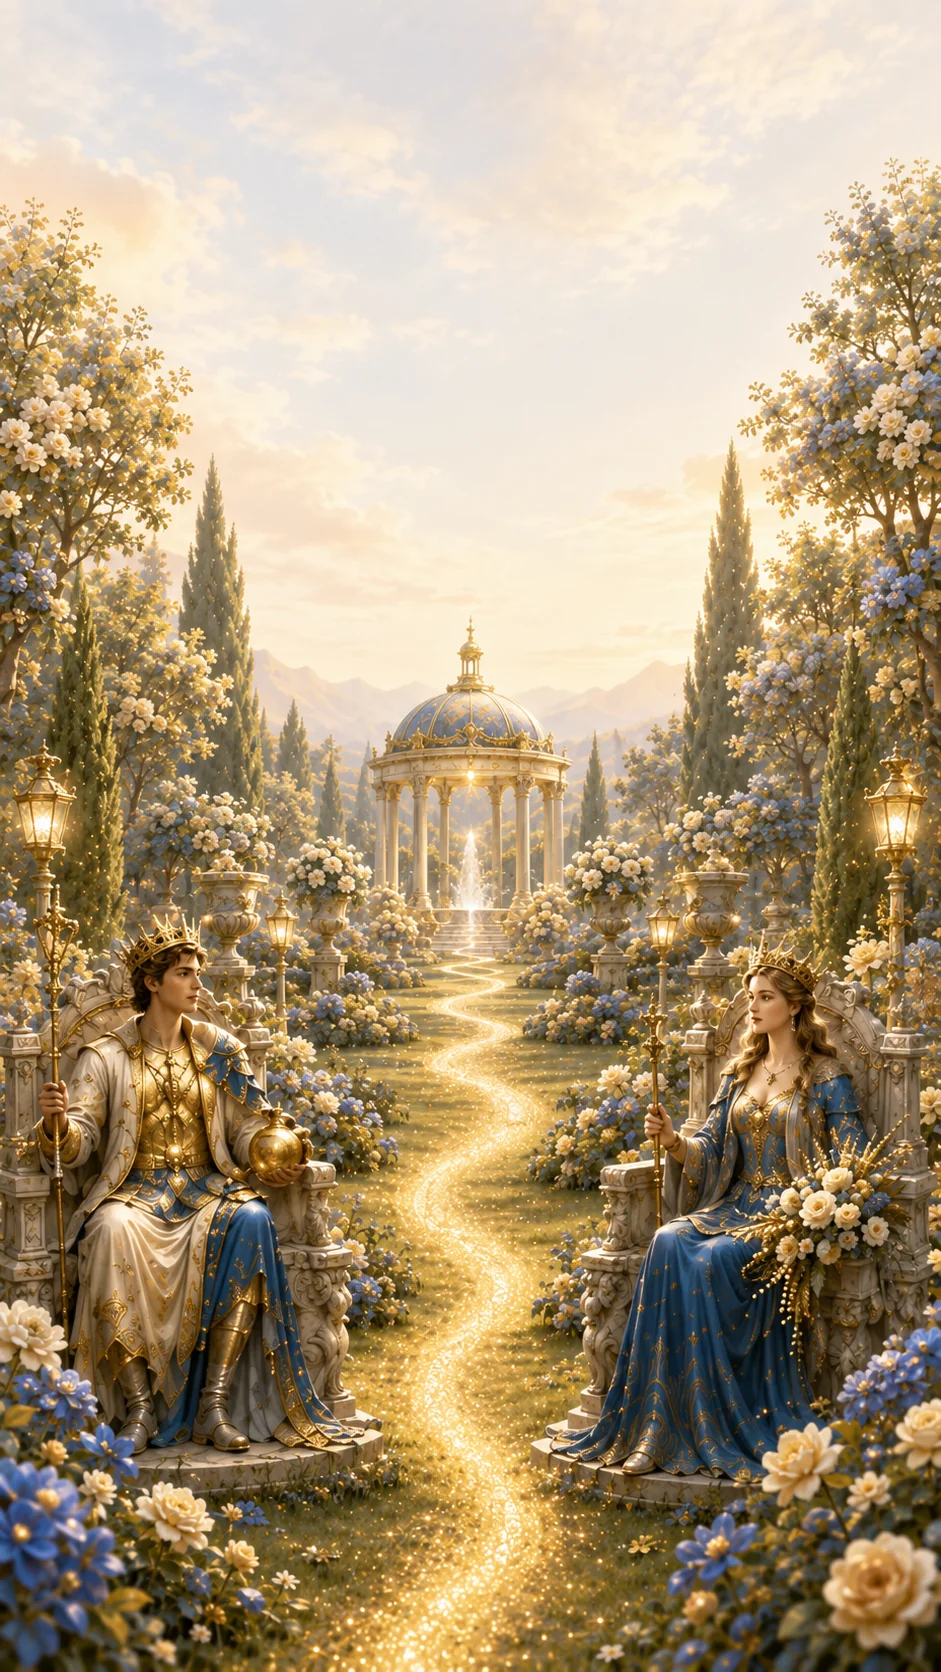
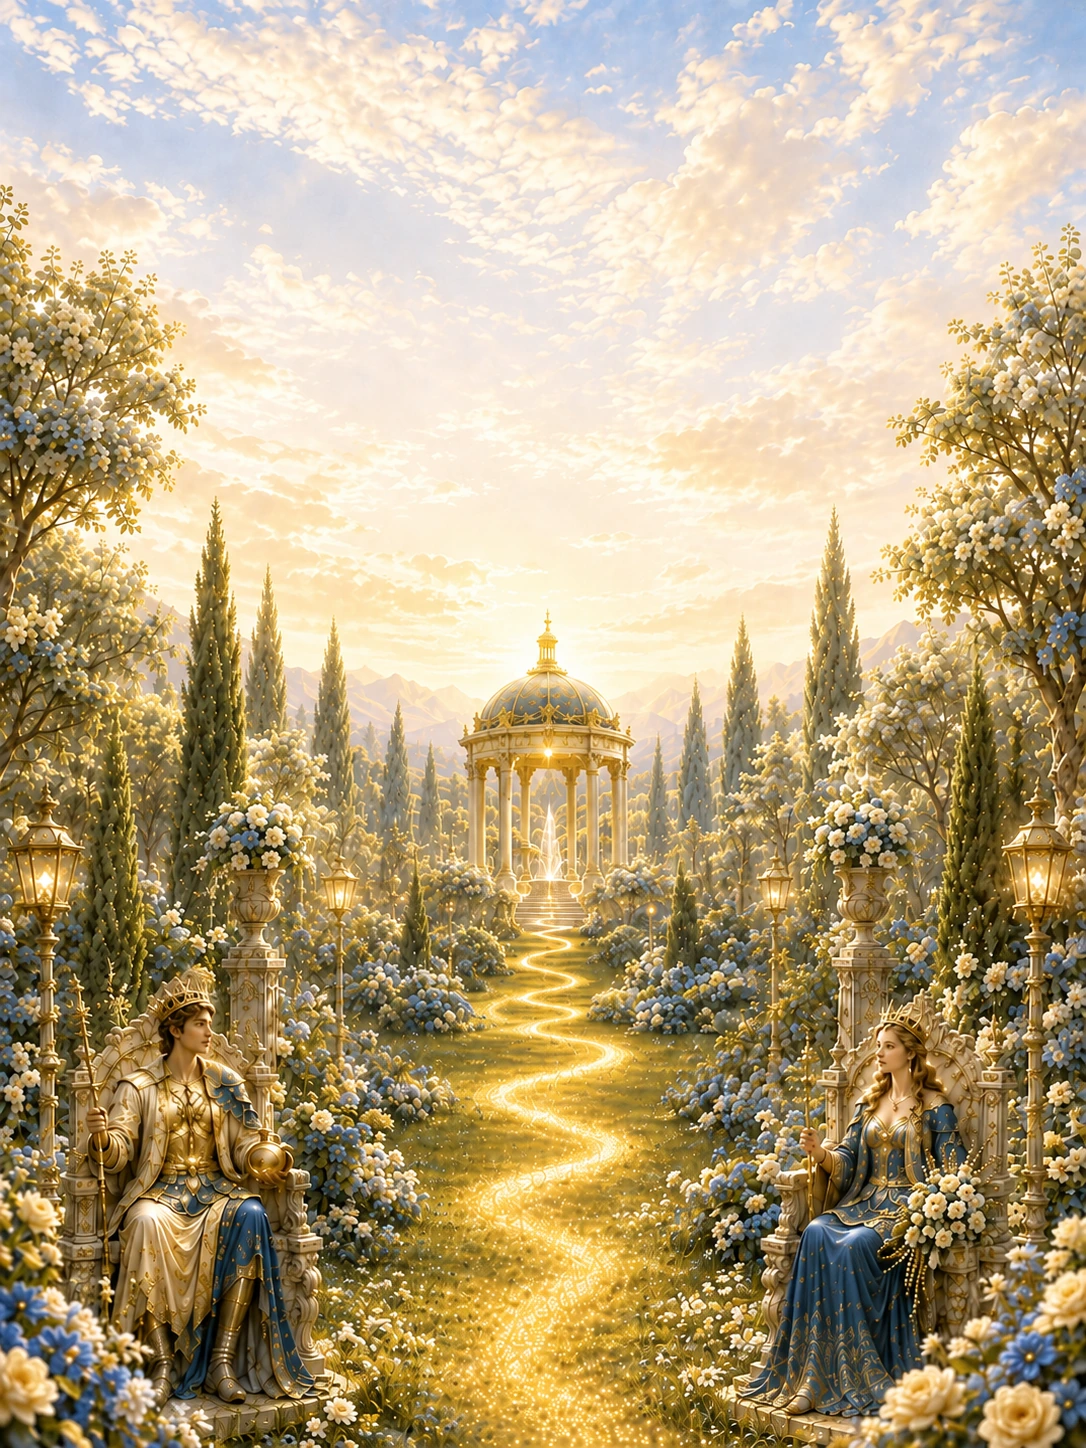
bg: novye fony pk i mobilka + chitaemost zagolovka registracii

diff --git a/src/pages/Register.tsx b/src/pages/Register.tsx
@@ -67,7 +67,7 @@ export default function Register() {
       <Header />
       <main className="container mx-auto px-4 py-8 md:py-12">
         <div className="max-w-md mx-auto">
-          <div className="text-center mb-6">
+          <div className="text-center mb-6 rounded-2xl bg-background/70 backdrop-blur-md px-5 py-4 ring-1 ring-border/40 shadow-sm md:bg-transparent md:backdrop-blur-none md:px-0 md:py-0 md:ring-0 md:shadow-none">
             <h1 className="font-display text-3xl md:text-4xl text-primary mb-3 leading-tight">
               {t("auth.registerTitle1")}<br />{t("auth.registerTitle2")}
             </h1>
